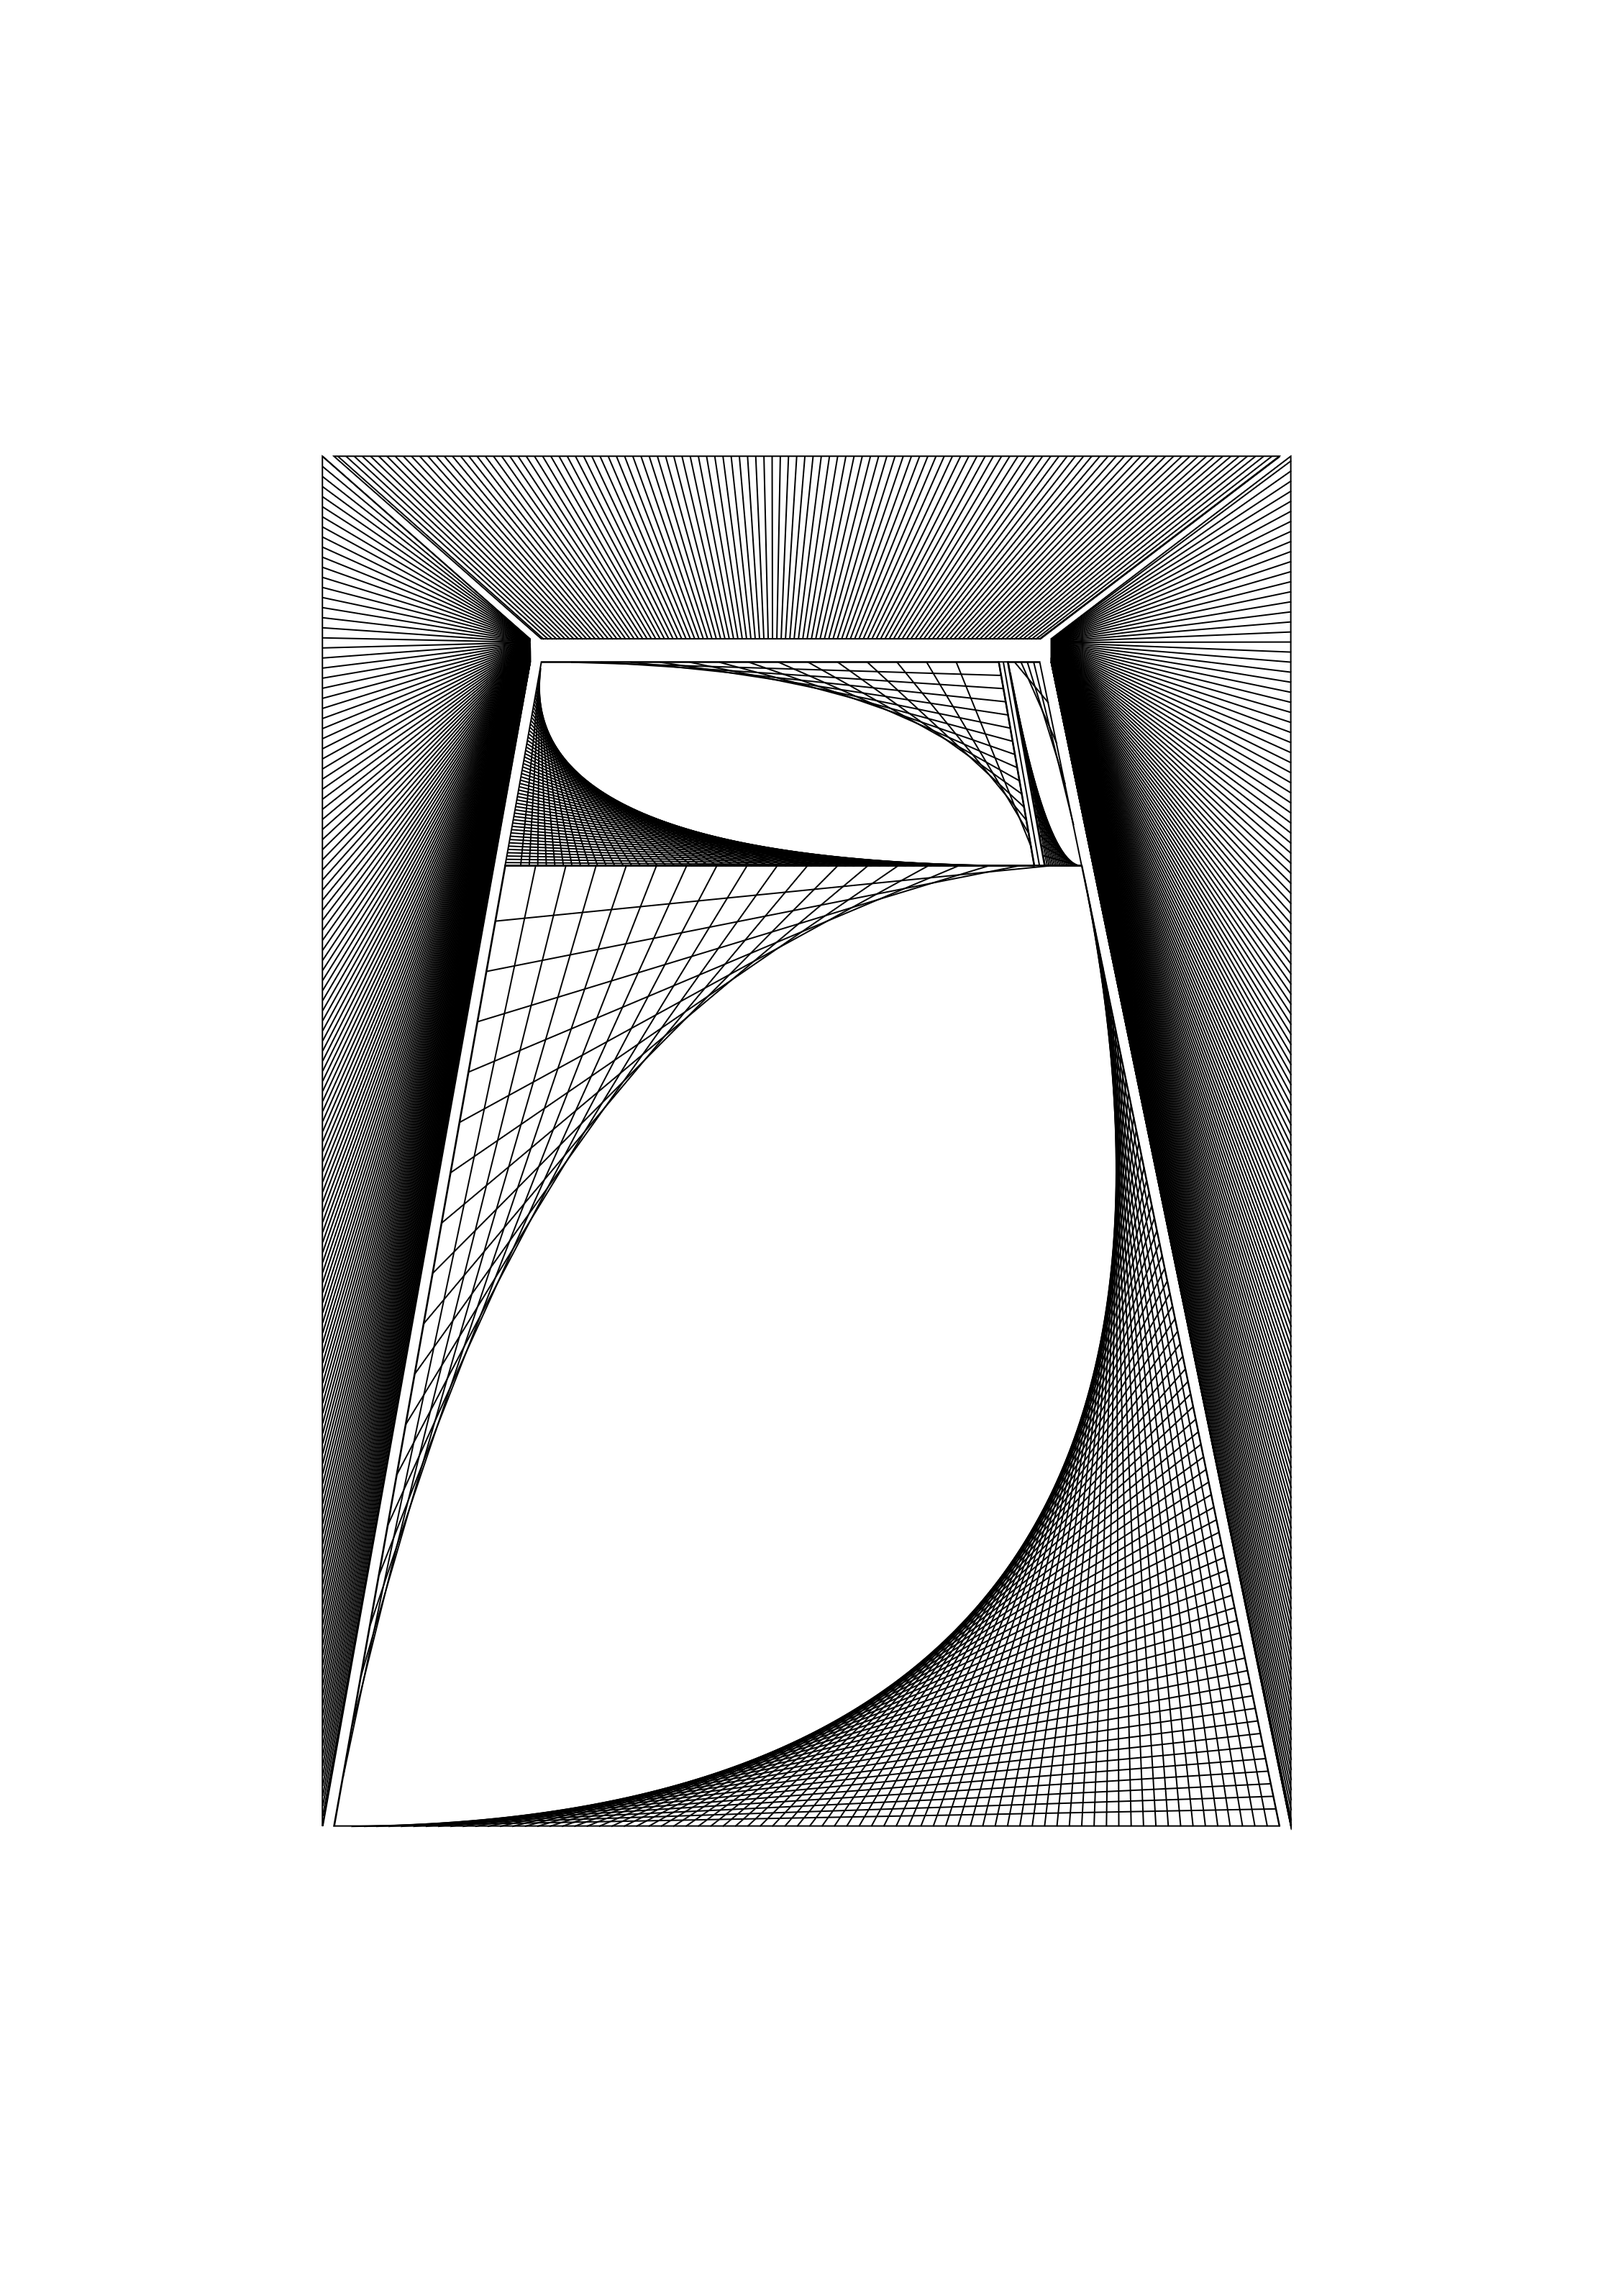
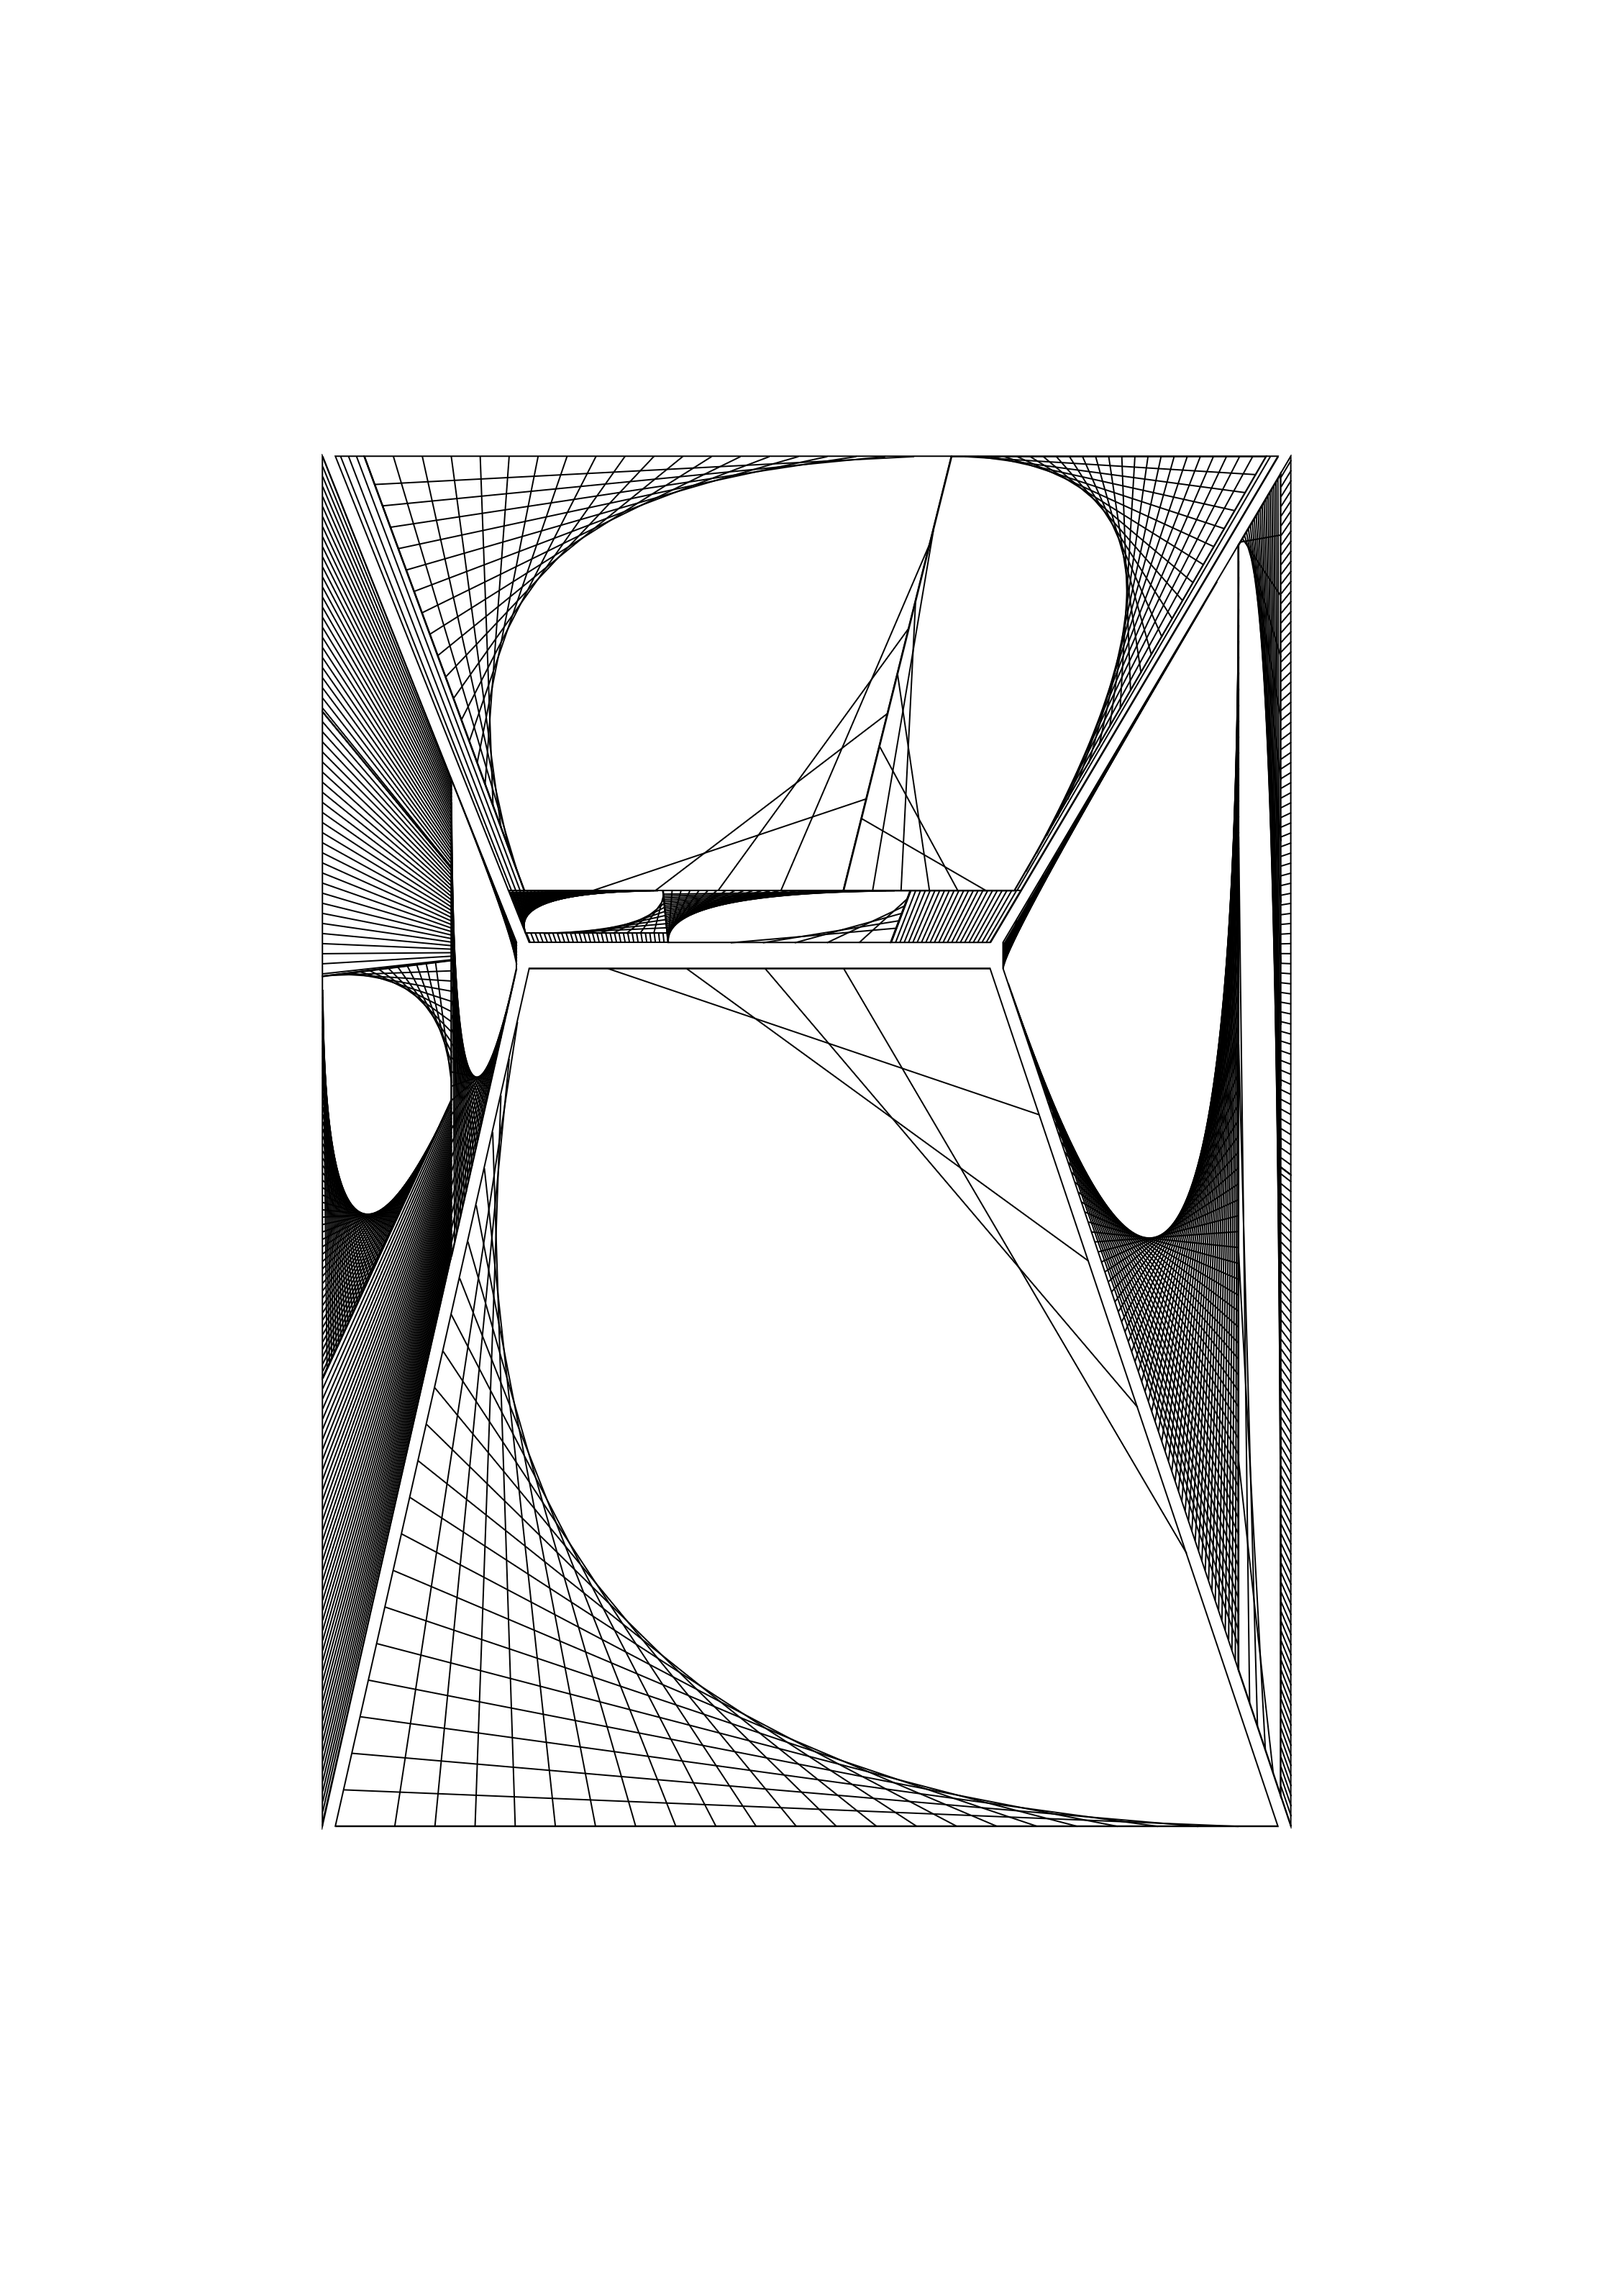
*]+{><}+[*

Changed region(s): [[0.1872, 0.1871, 0.8111, 0.811], [0.6239, 0.4679, 0.6551, 0.4991]]

diff --git a/p5-experiments/plottableperspective004.html b/p5-experiments/plottableperspective004.html
@@ -1,0 +1,193 @@
+<!DOCTYPE html>
+<html lang="en">
+<html>
+
+<head>
+    <meta charset="UTF-8">
+    <script src="https://cdnjs.cloudflare.com/ajax/libs/p5.js/1.5.0/p5.js"></script>
+    <script src="https://cdnjs.cloudflare.com/ajax/libs/p5.js/0.5.11/addons/p5.dom.min.js"></script>
+    <script src="https://unpkg.com/p5.js-svg@1.5.1"></script>
+    <style>
+        body {
+            padding: 0;
+            margin: 0;
+        }
+    </style>
+</head>
+
+<body>
+    <script>
+        //pixel = dpi * mm / 25.4 mm
+        //A3: 297mm × 420mm
+        //96dpi is for plotting on the UUNA TEK iDraw
+        //w=96*297/25.4=1122.5
+        //h=96*420/25.4=1587.4
+        var echelle = 1
+        var w = 1122 * echelle
+        var h = 1587 * echelle
+        var rightmargin = 0.8 * w
+        var leftmargin = 0.2 * w
+        var topmargin = 0.2 * h
+        var bottommargin = 0.8 * h
+        var actualwidth = rightmargin - leftmargin
+        var actualheight = bottommargin - topmargin
+        var cnv, imgbtn, maxcount
+        var dataforonerow = []
+
+        function setup() {
+            //getsvg()
+            getpng()
+            centerCanvas();
+            colorMode(HSB, 360, 100, 100, 250);
+            strokeCap(SQUARE)
+            noFill()
+            maxcount = random(39, 45)
+        }
+
+        function getsvg() {
+            cnv = createCanvas(w, h, SVG);
+            imgbtn = createButton("save svg");
+            placebtn();
+            imgbtn.mouseClicked(savesvg);
+        }
+        function getpng() {
+            cnv = createCanvas(w, h);
+            imgbtn = createButton("save png");
+            placebtn();
+            imgbtn.mouseClicked(savepng);
+        }
+
+        function centerCanvas() {
+            var x = (windowWidth - w) / 2;
+            var y = (windowHeight - h) / 2;
+            cnv.position(x, y);
+        }
+
+        function placebtn() {
+            var x = (windowWidth - w) / 2;
+            var y = (windowHeight - h) / 2;
+            imgbtn.position(x - 200, y + h / 2 + 42)
+        }
+
+        function savesvg() {
+            save("plottableperspective001.svg");
+        }
+        function savepng() {
+            save("plottableperspective001.png");
+        }
+
+        function draw() {
+            background(0, 0, 100)
+            stroke(0, 0, 0)
+            eye()
+            noLoop()
+        }
+
+        function eye() {
+            var cx, cy, offset, leftoff, rightoff
+            offset = Math.floor(random(7, 11))
+            cx = w * 0.5
+            cy = topmargin + offset + actualheight * random(0.1, 0.4)
+            leftoff = offset + actualwidth * random(0.1, 0.4)
+            rightoff = offset + actualwidth * random(0.1, 0.4)
+            section2(leftmargin + offset, bottommargin,
+                cx - leftoff + offset, cy + offset,
+                cx + rightoff - offset, cy + offset,
+                rightmargin - offset, bottommargin, true, 0)
+            section2(leftmargin, topmargin,
+                cx - leftoff, cy - offset,
+                cx - leftoff, cy + offset,
+                leftmargin, bottommargin, false, 0)
+            section2(rightmargin - offset, topmargin,
+                cx + rightoff - offset, cy - offset,
+                cx - leftoff + offset, cy - offset,
+                leftmargin + offset, topmargin, true, 0)
+            section2(rightmargin, bottommargin,
+                cx + rightoff, cy + offset,
+                cx + rightoff, cy - offset,
+                rightmargin, topmargin, false, 0)
+        }
+
+        function section2(x1, y1, x2, y2, x3, y3, x4, y4, horizon, iter) {
+            if (iter < 3) {
+                if (random() > 0.2) {
+                    console.log("dive")
+                    var ox, oy, dx, dy, t
+                    t = random()
+                    if (random() > 0.5) {
+                        ox = (1 - t) * x4 + (t * x1)
+                        oy = (1 - t) * y4 + (t * y1)
+                        dx = (1 - t) * x3 + (t * x2)
+                        dy = (1 - t) * y3 + (t * y2)
+                        iter++
+                        section2(x1, y1, x2, y2, dx, dy, ox, oy, horizon, iter)
+                        section2(ox, oy, dx, dy, x3, y3, x4, y4, horizon, iter)
+                    }
+                    else {
+                        ox = (1 - t) * x2 + (t * x1)
+                        oy = (1 - t) * y2 + (t * y1)
+                        dx = (1 - t) * x3 + (t * x4)
+                        dy = (1 - t) * y3 + (t * y4)
+                        iter++
+                        section2(x1, y1, ox, oy, dx, dy, x4, y4, horizon, iter)
+                        section2(ox, oy, x2, y2, x3, y3, dx, dy, horizon, iter)
+                    }
+                }
+                else {
+                    play(x1, y1, x2, y2, x3, y3, x4, y4, horizon)
+                }
+            }
+            else {
+                play(x1, y1, x2, y2, x3, y3, x4, y4, horizon)
+            }
+        }
+
+        function play(x1, y1, x2, y2, x3, y3, x4, y4, horizon) {
+            //stair(x1, y1, x2, y2, x3, y3, x4, y4, horizon)
+            deep(x1, y1, x2, y2, x3, y3, x4, y4, horizon)
+        }
+
+        function deep(x1, y1, x2, y2, x3, y3, x4, y4, horizon) {
+            var ox, oy, dx, dy, mx, my, off, density, t
+            quad(x1, y1, x2, y2, x3, y3, x4, y4)
+            density = 0.02
+            if(horizon){
+                for (t = 0; t < 1; t += density) {
+                    ox = getpointonline(x2, x3, t)
+                    oy = getpointonline(y2, y3, t)
+                    dx = ox
+                    dy = oy + 42
+                    line(ox,oy,dx,dy)
+
+                }
+            }
+        }
+
+        function stair(x1, y1, x2, y2, x3, y3, x4, y4, horizon) {
+            var ox, oy, dx, dy, mx, my, off, density, t
+            density = random(0.01, 0.02)
+            quad(x1, y1, x2, y2, x3, y3, x4, y4)
+            if (horizon) {
+                for (t = 0; t < 1; t += density) {
+                    ox = getpointonline(x2, x1, t)
+                    oy = getpointonline(y2, y1, t)
+                    dx = getpointonline(x3, x4, t)
+                    dy = getpointonline(y3, y4, t)
+                    off = random(density)
+                    t += off
+                    mx = getpointonline(ox, dx, t)
+                    my = getpointonline(oy, dy, t)
+                    line(mx, my, dx, dy)
+                }
+            }
+        }
+
+        function getpointonline(origin, destination, t) {
+            return ((1 - t) * origin + (t * destination))
+
+        }
+
+    </script>
+</body>
+
+</html>

diff --git a/p5-experiments/plottable009.html b/p5-experiments/plottable009.html
@@ -94,18 +94,20 @@
             Either the piece prints in one shot on the screen, or it is animated
         */
         function draw() {
-            singlelineinoneshot()
+            //singlelineinoneshot()
             console.log(linecounter)
-            noLoop()
-            //singlelineinmotion()
-        }
+            singlelineinmotion()
+            //noLoop()
+            }
         function singlelineinmotion() {
+            
             if (y < bottommargin - step) {
                 if (goingright) {
                     if (x < rightmargin - step) {
                         oneline()
                     }
                     else {
+
                         linecounter++
                         y1 = y + 2 * step + offset
                         line(x, y, x, y1)
@@ -154,10 +156,9 @@
             }
         }
 
-        function oneline() {
+        function oneline() {                
             var y1, x1, config
             config = Math.floor(noise(xoff)*5);xoff+=inc
-                //Math.floor(random(5))
             switch (config) {
                 case 0:
                     if (atthetop) { y1 = y + step }
@@ -201,7 +202,7 @@
                     y1 = y
                     break;
             }
-            x = x1
+                x = x1
             y = y1
             //            return [x1,y1]
         }
